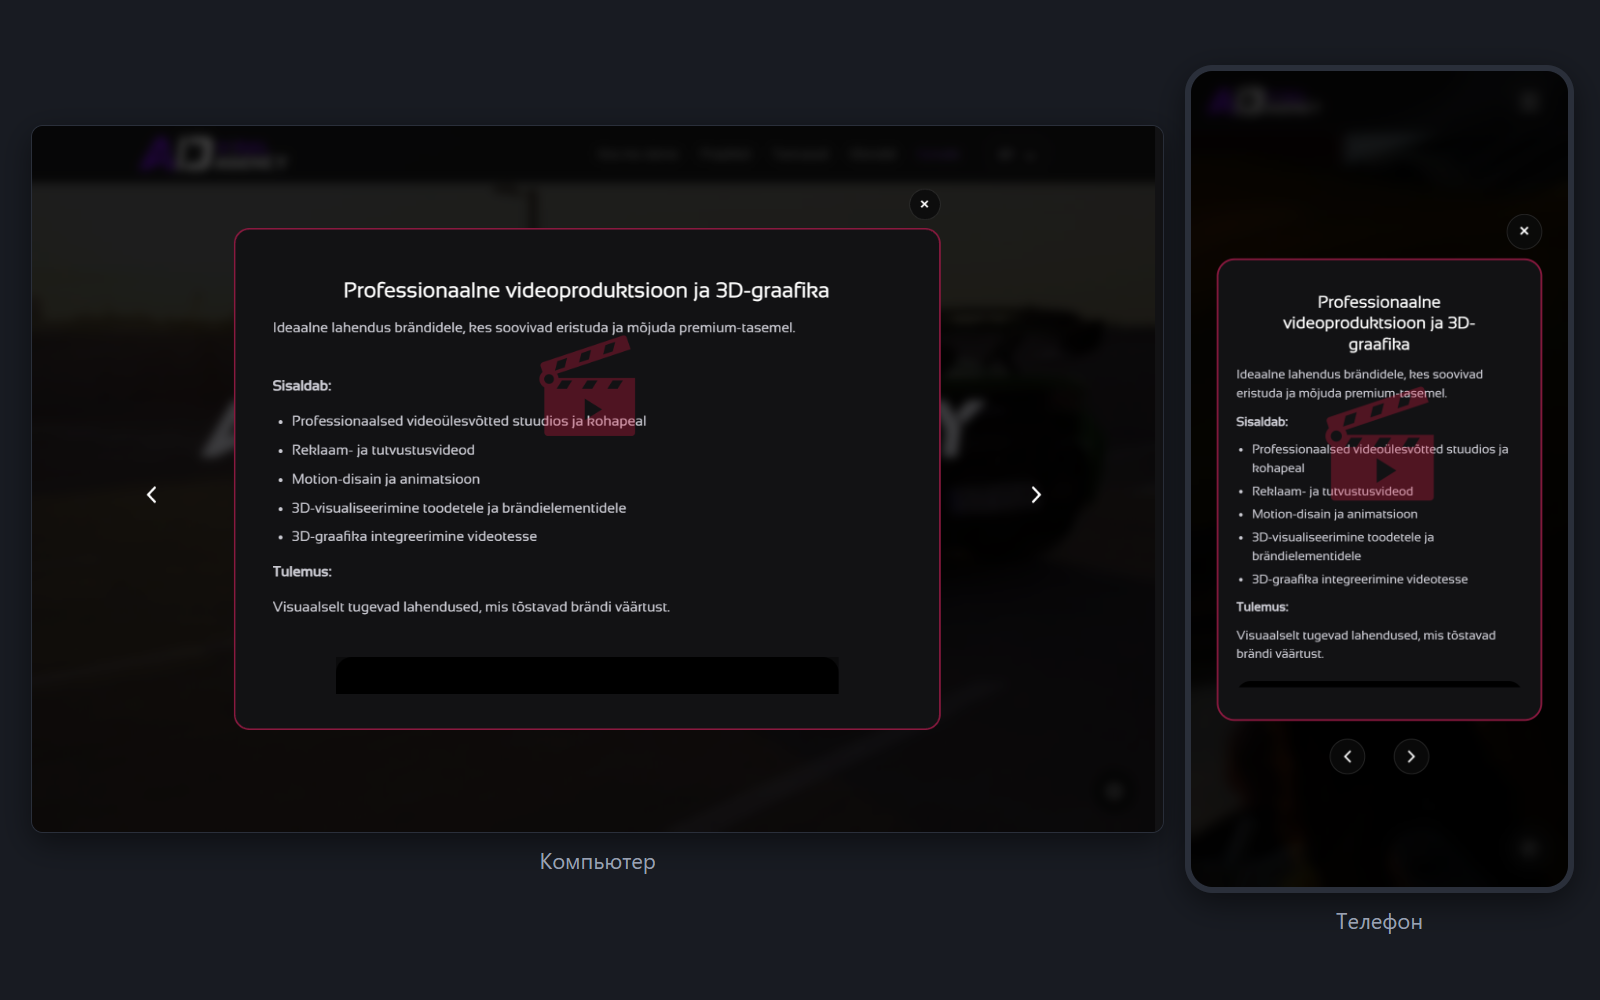
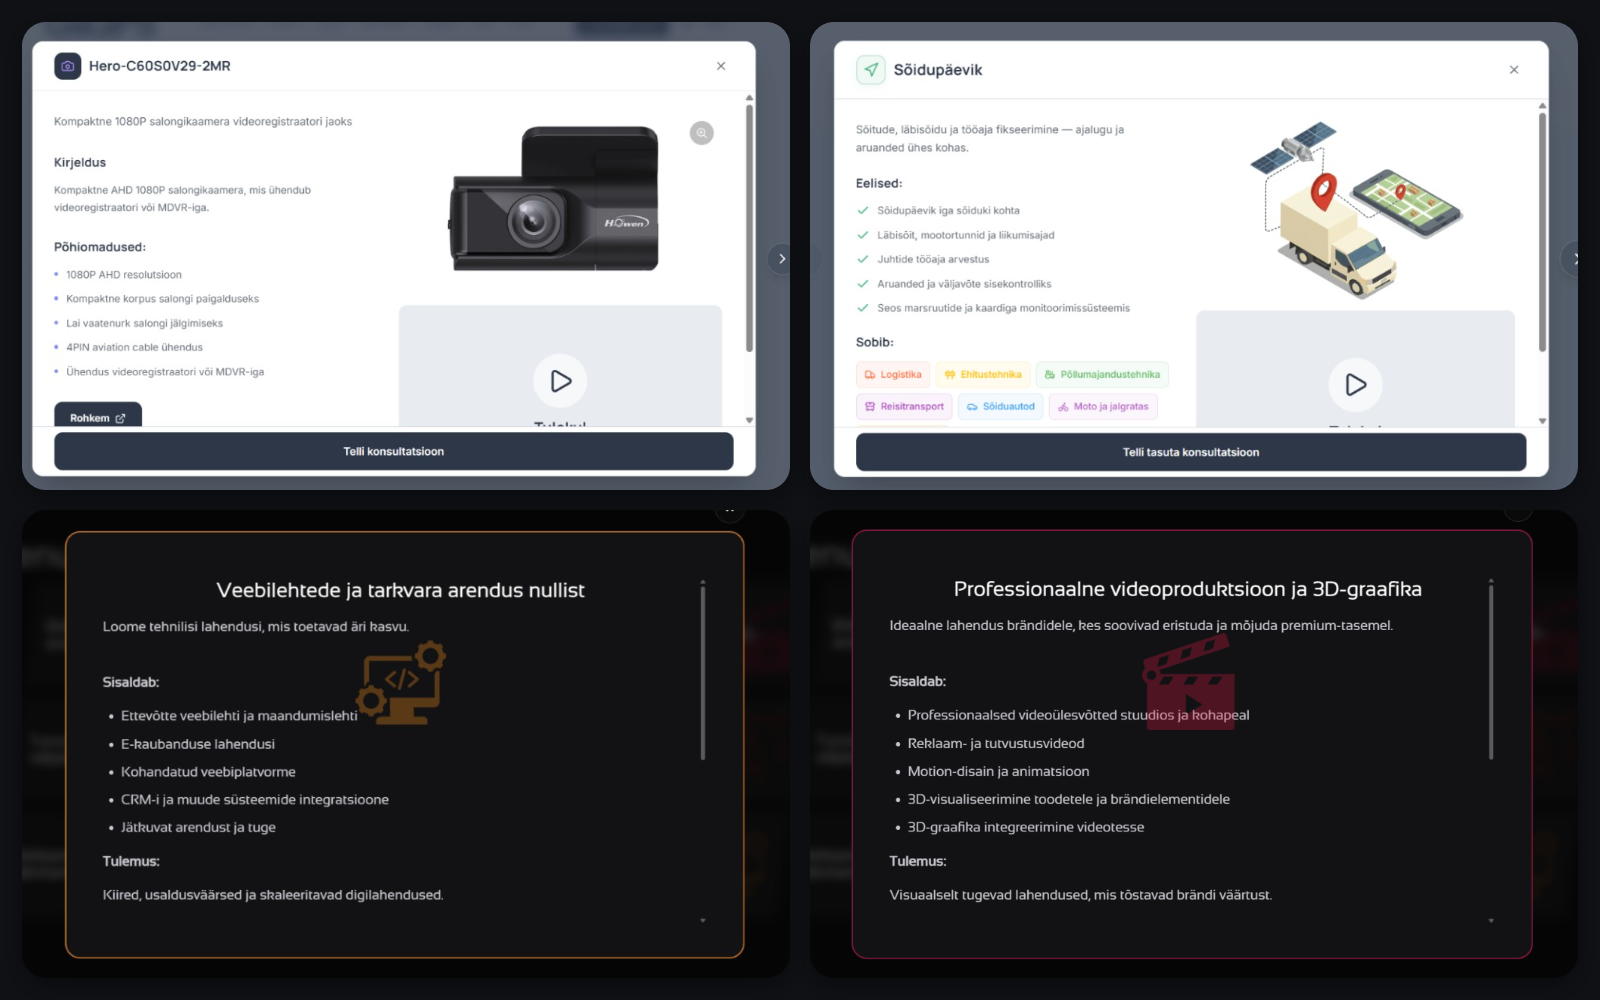
Slide 7: four popup screenshots with rounded corners

diff --git a/Prezentatsioon/slides_ru.html b/Prezentatsioon/slides_ru.html
@@ -51,6 +51,10 @@
     width: 128%; height: 128%; left: -14%; right: auto; top: 0; bottom: auto;
     object-fit: cover; object-position: top center;
   }
+  .img video.crop-top-sm {
+    width: 106%; height: 106%; left: -3%; right: auto; top: 0; bottom: auto;
+    object-fit: cover; object-position: top center;
+  }
 
   .flow { display: flex; align-items: stretch; gap: 1.2vw; flex-wrap: wrap; }
   .flow .card { flex: 1; min-width: 180px; }
@@ -152,7 +156,7 @@
       <li>Сжатые картинки (WebP) и лёгкие превью видео</li>
     </ul>
     <div class="img">
-      <video class="crop-top" src="img/Adviral_QuickLook.mp4" muted autoplay loop playsinline></video>
+      <video class="crop-top-sm" src="img/ADViralAgency_QuickLook.mp4" muted autoplay loop playsinline></video>
     </div>
   </div>
 </section>
@@ -168,7 +172,7 @@
     </div>
     <div class="img">
       <img src="img/popup_vs_google.png" alt="" onerror="this.remove()">
-      Попап услуги на сайте<br>(img/popup_vs_google.png)
+      Попапы услуг на сайтах<br>(img/popup_vs_google.png)
     </div>
   </div>
 </section>
